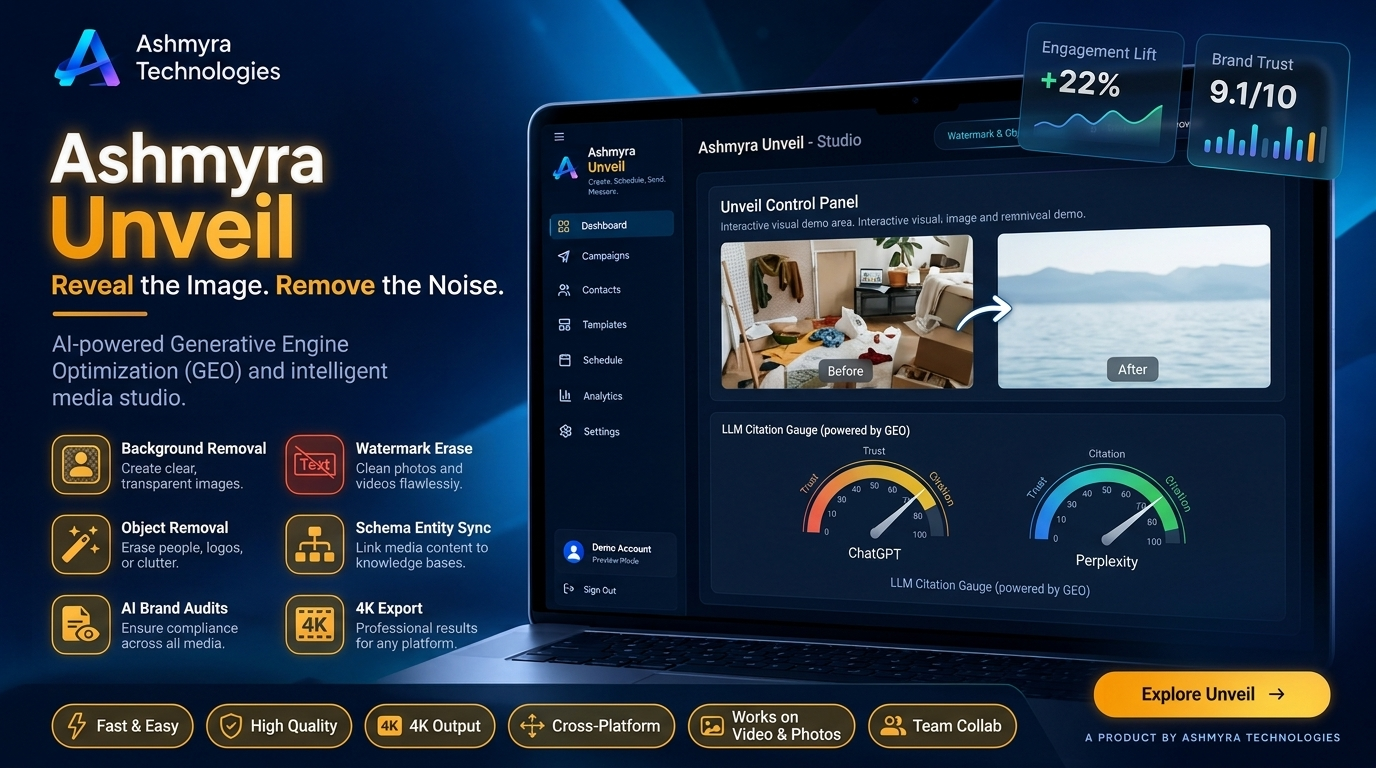
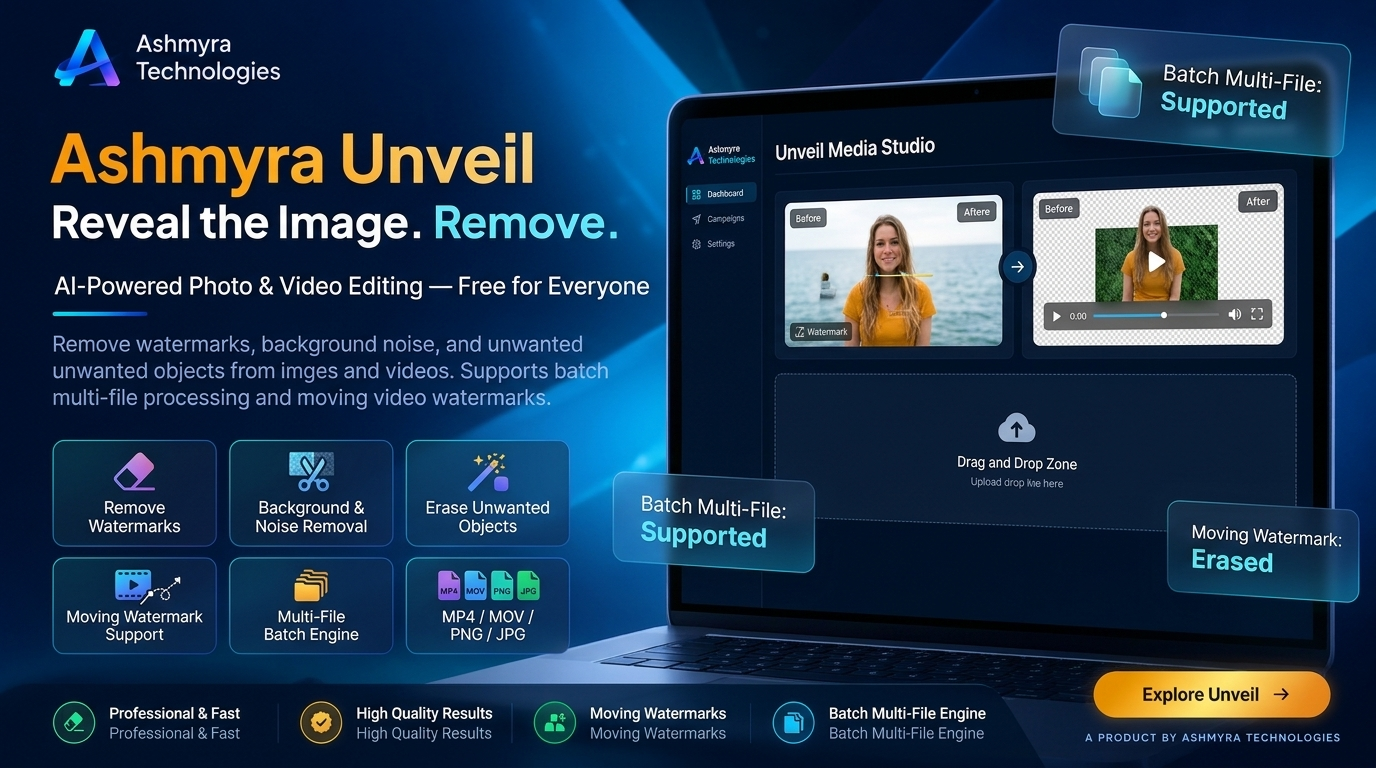
fix(unveil): correct Unveil to AI photo & video watermark/noise eraser and update 16:9 widescreen poster

diff --git a/src/app/products/page.tsx b/src/app/products/page.tsx
@@ -345,36 +345,36 @@ export default function ProductsPage() {
               </div>
             </div>
 
-            {/* Box 2: Search & GEO Telemetry */}
+            {/* Box 2: Search & Spider Forensics */}
             <div className="p-7 rounded-2xl bg-white/[0.02] border border-white/[0.07] flex flex-col justify-between">
               <div>
                 <div className="w-10 h-10 rounded-xl bg-sky-500/10 border border-sky-500/30 flex items-center justify-center mb-5 text-sky-400">
                   <Search className="w-5 h-5" />
                 </div>
                 <h3 className="text-lg font-bold text-white mb-2">
-                  Search &amp; GEO Discovery Radar
+                  Search &amp; Spider Forensics
                 </h3>
                 <p className="text-xs text-neutral-400 leading-relaxed mb-4">
-                  Veyrix crawls website forensics with real-time GSC/GA4 synchronization; Unveil tracks brand citations across Perplexity, ChatGPT, and Gemini.
+                  Veyrix crawls website forensics with deep spider auditing, GSC/GA4 live telemetry, and AI citation radar across Perplexity, ChatGPT, and Gemini.
                 </p>
                 <div className="space-y-2 text-xs text-neutral-300 pt-2 border-t border-white/[0.06]">
                   <div className="flex items-center gap-2">
                     <span className="text-sky-400 font-mono">01.</span>
-                    <span>Deep spider crawler detecting render-blocking assets</span>
+                    <span>Deep spider crawler auditing 2,450+ URLs for 404s &amp; broken links</span>
                   </div>
                   <div className="flex items-center gap-2">
                     <span className="text-sky-400 font-mono">02.</span>
-                    <span>GEO citation scoring across modern generative search</span>
+                    <span>Core Web Vitals HUD (LCP, CLS, INP) &amp; keyword cannibalization</span>
                   </div>
                   <div className="flex items-center gap-2">
                     <span className="text-sky-400 font-mono">03.</span>
-                    <span>Automated Schema.org entity &amp; JSON-LD generation</span>
+                    <span>24/7 automated revenue safeguard &amp; instant regression alerts</span>
                   </div>
                 </div>
               </div>
 
               <div className="mt-6 pt-4 border-t border-white/[0.06] flex items-center justify-between text-xs font-mono text-sky-400">
-                <span>Veyrix + Unveil</span>
+                <span>Veyrix Intelligence</span>
                 <ArrowRight className="w-3.5 h-3.5" />
               </div>
             </div>
@@ -438,32 +438,32 @@ export default function ProductsPage() {
           {/* Architecture Pipeline Cards */}
           <div className="grid grid-cols-1 md:grid-cols-3 gap-6 relative">
             <div className="p-6 rounded-2xl bg-white/[0.03] border border-white/[0.08]">
-              <span className="text-[10px] font-mono text-indigo-400 uppercase tracking-wider block mb-2 font-semibold">
-                Phase 01 · Discovery &amp; Search Radar
+              <span className="text-[10px] font-mono text-sky-400 uppercase tracking-wider block mb-2 font-semibold">
+                Phase 01 · Search &amp; Spider Radar
               </span>
-              <h4 className="text-base font-bold text-white mb-2">Unveil &amp; Veyrix</h4>
+              <h4 className="text-base font-bold text-white mb-2">Veyrix</h4>
               <p className="text-xs text-neutral-400 leading-relaxed">
-                Ingests technical site health, crawls regressions, and tracks generative AI search engine visibility across Perplexity and ChatGPT.
+                Ingests technical site health, crawls deep regressions, and tracks generative AI search engine visibility across Perplexity and ChatGPT.
               </p>
             </div>
 
             <div className="p-6 rounded-2xl bg-white/[0.03] border border-white/[0.08]">
               <span className="text-[10px] font-mono text-cyan-400 uppercase tracking-wider block mb-2 font-semibold">
-                Phase 02 · Audience &amp; Intent Scoring
+                Phase 02 · Audience &amp; Lead Pipeline
               </span>
-              <h4 className="text-base font-bold text-white mb-2">Prospect IQ</h4>
+              <h4 className="text-base font-bold text-white mb-2">Prospect IQ &amp; MailFlow</h4>
               <p className="text-xs text-neutral-400 leading-relaxed">
-                Discovers target ICP contacts, enriches enterprise company tech stacks, and waterfalls email verification with zero bounce rate.
+                Discovers target ICP contacts, enriches company tech stacks, and waterfalls email verification with deliverability-monitored cold outreach.
               </p>
             </div>
 
-            <div className="p-6 rounded-2xl bg-white/[0.03] border border-white/[0.03] border-white/[0.08]">
-              <span className="text-[10px] font-mono text-emerald-400 uppercase tracking-wider block mb-2 font-semibold">
-                Phase 03 · Autonomous Execution
+            <div className="p-6 rounded-2xl bg-white/[0.03] border border-white/[0.08]">
+              <span className="text-[10px] font-mono text-amber-400 uppercase tracking-wider block mb-2 font-semibold">
+                Phase 03 · Media &amp; Campaign Distribution
               </span>
-              <h4 className="text-base font-bold text-white mb-2">MailFlow &amp; Omnira</h4>
+              <h4 className="text-base font-bold text-white mb-2">Omnira &amp; Unveil</h4>
               <p className="text-xs text-neutral-400 leading-relaxed">
-                Dispatches cold outreach across warmed inbox pools while autonomous agents publish viral content packages across social networks.
+                Omnira coordinates multi-platform viral distribution while Unveil erases moving watermarks, noise, and unwanted objects from photo and video assets.
               </p>
             </div>
           </div>

diff --git a/src/components/products-cinematic-hero.tsx b/src/components/products-cinematic-hero.tsx
@@ -331,53 +331,53 @@ export function ProductsCinematicHero() {
           </div>
         );
 
-      // 4. Unveil — Generative Engine Optimization (GEO) Radar
+      // 4. Unveil — AI-Powered Photo & Video Editing Engine
       case "unveil":
         return (
           <div className="h-full flex flex-col justify-between p-3.5 sm:p-4 select-none font-sans text-xs">
-            {/* Top Status & GEO Score Badge */}
+            {/* Top Status & Queue Badge */}
             <div className="flex items-center justify-between pb-2 border-b border-white/[0.08]">
               <div className="flex items-center gap-2">
                 <span className="w-2 h-2 rounded-full bg-amber-400 animate-pulse" />
-                <span className="text-white font-semibold text-[12px]">Generative Engine Visibility (GEO)</span>
+                <span className="text-white font-semibold text-[12px]">AI Watermark &amp; Noise Eraser</span>
               </div>
               <span className="text-[10px] text-amber-300 bg-amber-500/15 border border-amber-500/30 px-2.5 py-0.5 rounded-full font-bold">
-                GEO Score: 96/100
+                Batch Multi-File Engine
               </span>
             </div>
 
-            {/* Visual AI Model Citation Leaderboard */}
+            {/* Active Media Clean Tasks Preview */}
             <div className="space-y-1.5 py-0.5">
               <div className="flex items-center justify-between p-2 rounded-lg bg-white/[0.03] border border-white/[0.07] text-[10.5px]">
-                <div className="flex items-center gap-2">
-                  <span className="w-2 h-2 rounded-full bg-emerald-400" />
-                  <span className="text-white font-medium">ChatGPT / GPT-4o</span>
-                  <span className="text-neutral-400 text-[9.5px]">· Top Recommendation</span>
+                <div className="flex items-center gap-2 min-w-0">
+                  <span className="w-2 h-2 rounded-full bg-emerald-400 shrink-0" />
+                  <span className="text-white font-medium truncate">campaign-reel.mp4 (4K)</span>
+                  <span className="text-neutral-400 text-[9.5px] truncate">· Moving Watermark Erased</span>
                 </div>
-                <span className="text-emerald-400 font-semibold text-[10px] bg-emerald-500/10 px-2 py-0.5 rounded">
-                  Rank #1
+                <span className="text-emerald-400 font-semibold text-[10px] bg-emerald-500/10 px-2 py-0.5 rounded shrink-0">
+                  Cleaned
                 </span>
               </div>
 
               <div className="flex items-center justify-between p-2 rounded-lg bg-white/[0.03] border border-white/[0.07] text-[10.5px]">
-                <div className="flex items-center gap-2">
-                  <span className="w-2 h-2 rounded-full bg-cyan-400" />
-                  <span className="text-white font-medium">Perplexity AI</span>
-                  <span className="text-neutral-400 text-[9.5px]">· 4 Direct Citations</span>
+                <div className="flex items-center gap-2 min-w-0">
+                  <span className="w-2 h-2 rounded-full bg-cyan-400 shrink-0" />
+                  <span className="text-white font-medium truncate">hero-portrait.png</span>
+                  <span className="text-neutral-400 text-[9.5px] truncate">· Background &amp; Noise Removed</span>
                 </div>
-                <span className="text-cyan-400 font-semibold text-[10px] bg-cyan-500/10 px-2 py-0.5 rounded">
-                  Primary Source
+                <span className="text-cyan-400 font-semibold text-[10px] bg-cyan-500/10 px-2 py-0.5 rounded shrink-0">
+                  Transparent
                 </span>
               </div>
 
               <div className="flex items-center justify-between p-2 rounded-lg bg-white/[0.03] border border-white/[0.07] text-[10.5px]">
-                <div className="flex items-center gap-2">
-                  <span className="w-2 h-2 rounded-full bg-indigo-400" />
-                  <span className="text-white font-medium">Google AI Overviews</span>
-                  <span className="text-neutral-400 text-[9.5px]">· Featured Entity Card</span>
+                <div className="flex items-center gap-2 min-w-0">
+                  <span className="w-2 h-2 rounded-full bg-amber-400 shrink-0" />
+                  <span className="text-white font-medium truncate">event-footage.mov</span>
+                  <span className="text-neutral-400 text-[9.5px] truncate">· Unwanted Object &amp; Text Eraser</span>
                 </div>
-                <span className="text-indigo-400 font-semibold text-[10px] bg-indigo-500/10 px-2 py-0.5 rounded">
-                  Included
+                <span className="text-amber-400 font-semibold text-[10px] bg-amber-500/10 px-2 py-0.5 rounded shrink-0">
+                  Done (99.6%)
                 </span>
               </div>
             </div>
@@ -386,9 +386,9 @@ export function ProductsCinematicHero() {
             <div className="pt-2 border-t border-white/[0.08] flex items-center justify-between text-[10.5px] text-neutral-400">
               <span className="flex items-center gap-1.5">
                 <Check className="w-3 h-3 text-emerald-400" />
-                <span>Automated Schema.org &amp; Entity Sync</span>
+                <span>Zero Artifacts · Moving Frame Inpainting</span>
               </span>
-              <span className="text-amber-400 font-medium">Daily AI Brand Audits</span>
+              <span className="text-amber-400 font-medium">MP4, MOV, PNG, JPG, WebP</span>
             </div>
           </div>
         );

diff --git a/src/app/demos/page.tsx b/src/app/demos/page.tsx
@@ -4,7 +4,6 @@ import Link from "next/link";
 import { DEMO_PRODUCTS, DemoProduct } from "@/data/demos";
 import { TryDemoSection } from "@/components/try-demo-section";
 import { ScrollToTopOnMount } from "@/components/scroll-to-top-on-mount";
-import { Breadcrumbs } from "@/components/breadcrumbs";
 import { 
   Sparkles, 
   ArrowRight, 
@@ -23,14 +22,14 @@ import {
 export const metadata: Metadata = {
   title: "Ashmyra Live Demos | Veyrix, MailFlow, Prospect IQ, Omnira & Unveil",
   description:
-    "Test live Ashmyra AI platforms in your browser: Veyrix search intelligence, Omnira social media AI agent, MailFlow cold email automation, Prospect IQ B2B leads & Unveil GEO radar. Instant sandbox access.",
+    "Test live Ashmyra AI platforms in your browser: Veyrix search intelligence, Omnira social media AI agent, MailFlow cold email automation, Prospect IQ B2B leads & Unveil AI photo/video watermark and noise removal. Instant sandbox access.",
   alternates: {
     canonical: "https://www.ashmyra.com/demos",
   },
   openGraph: {
     title: "Ashmyra Live Demos | Veyrix, MailFlow, Prospect IQ, Omnira & Unveil",
     description:
-      "Test live Ashmyra AI platforms in your browser: Veyrix search intelligence, Omnira social media AI agent, MailFlow cold email automation, Prospect IQ B2B leads & Unveil GEO radar. Instant sandbox access.",
+      "Test live Ashmyra AI platforms in your browser: Veyrix search intelligence, Omnira social media AI agent, MailFlow cold email automation, Prospect IQ B2B leads & Unveil AI photo/video watermark and noise removal. Instant sandbox access.",
     url: "https://www.ashmyra.com/demos",
     images: [
       {
@@ -101,16 +100,15 @@ export default function DemosPage() {
         type="application/ld+json"
         dangerouslySetInnerHTML={{ __html: JSON.stringify(demosSchema) }}
       />
+      <script
+        type="application/ld+json"
+        dangerouslySetInnerHTML={{ __html: JSON.stringify(breadcrumbSchema) }}
+      />
 
       {/* Hero Header */}
-      <div className="relative overflow-hidden pt-10 pb-16 text-center border-b border-white/[0.06]">
+      <div className="relative overflow-hidden pt-12 pb-16 text-center border-b border-white/[0.06]">
         <div className="absolute inset-0 bg-[radial-gradient(ellipse_60%_50%_at_50%_0%,rgba(99,102,241,0.15)_0%,transparent_70%)] pointer-events-none" />
         <div className="relative z-10 max-w-4xl mx-auto px-4 sm:px-6 lg:px-8">
-          <Breadcrumbs
-            items={[{ label: "Live Demos" }]}
-            className="mb-8 justify-center"
-          />
-
           <div className="inline-flex items-center gap-2 px-3.5 py-1.5 rounded-full bg-emerald-500/10 border border-emerald-500/25 text-xs text-emerald-300 font-mono mb-6">
             <span className="w-2 h-2 rounded-full bg-emerald-400 animate-pulse" />
             <span>Interactive Production Sandboxes</span>

diff --git a/src/components/seo-schema.tsx b/src/components/seo-schema.tsx
@@ -136,7 +136,7 @@ export function SeoSchema() {
           "itemOffered": {
             "@type": "SoftwareApplication",
             "name": "Ashmyra Unveil",
-            "description": "Generative Engine Optimization (GEO) audit radar and LLM citation intelligence platform.",
+            "description": "AI-powered photo and video editing platform to remove watermarks, moving marks, background noise, and unwanted objects.",
             "applicationCategory": "BusinessApplication",
             "url": "https://unveil.ashmyra.com/"
           }
@@ -348,7 +348,7 @@ export function SeoSchema() {
         "name": "Where can I test working live demos of Ashmyra software?",
         "acceptedAnswer": {
           "@type": "Answer",
-          "text": "You can test live interactive production demos at https://www.ashmyra.com/demos. Five systems are immediately accessible: Veyrix (search intelligence & deep spider forensics at https://veyrix.ashmyra.com/), Ashmyra MailFlow (cold email warmup & automation at https://mailflow.ashmyra.com/), Prospect IQ (B2B lead intelligence at https://prospectiq.ashmyra.com/), Omnira (agentic AI social media manager for YouTube, LinkedIn, FB & IG at https://omnira.ashmyra.com/), and Ashmyra Unveil (generative search & GEO radar at https://unveil.ashmyra.com/)."
+          "text": "You can test live interactive production demos at https://www.ashmyra.com/demos. Five systems are immediately accessible: Veyrix (search intelligence & deep spider forensics at https://veyrix.ashmyra.com/), Ashmyra MailFlow (cold email warmup & automation at https://mailflow.ashmyra.com/), Prospect IQ (B2B lead intelligence at https://prospectiq.ashmyra.com/), Omnira (agentic AI social media manager for YouTube, LinkedIn, FB & IG at https://omnira.ashmyra.com/), and Ashmyra Unveil (AI photo & video watermark, noise and object removal at https://unveil.ashmyra.com/)."
         }
       },
       {

diff --git a/src/data/demos.ts b/src/data/demos.ts
@@ -90,25 +90,25 @@ export const DEMO_PRODUCTS: DemoProduct[] = [
     id: "unveil",
     name: "Unveil",
     url: "https://unveil.ashmyra.com/",
-    tagline: "AI Search, Competitor Intelligence & GEO Discovery",
+    tagline: "AI-Powered Photo & Video Editing Engine",
     description:
-      "Audit and optimize your digital presence for the generative AI era. Analyzes brand visibility across Perplexity, ChatGPT, Gemini, and Google AI Overviews with live audits.",
-    category: "GEO & Search Intel",
-    badge: "GEO Intelligence",
+      "Remove watermarks, background noise, and unwanted objects from images and videos. Supports multi-file batch processing and moving video watermarks.",
+    category: "AI Media & Video Editing",
+    badge: "Media AI",
     accent: "#f59e0b",
     accentRgb: "245, 158, 11",
     features: [
-      "Generative Engine Optimization (GEO) Radar",
-      "AI Overviews & LLM Citation Footprint",
-      "Real-Time Competitor Market Positioning",
-      "Actionable Schema & Semantic Entity Fixes",
+      "AI Watermark & Object Eraser (Images & Videos)",
+      "Moving Watermark Removal Across Video Frames",
+      "Background Removal & Background Noise Reduction",
+      "Multi-File Batch Engine (MP4, MOV, PNG, JPG, WebP)",
     ],
     metrics: [
-      { label: "GEO Score", value: "96/100" },
-      { label: "Citations", value: "24+" },
-      { label: "Audit Latency", value: "<8s" },
+      { label: "Clean Accuracy", value: "99.6%" },
+      { label: "Batch Speed", value: "10× Faster" },
+      { label: "Formats", value: "Video + Photo" },
     ],
-    highlight: "Generative Search Visibility",
+    highlight: "Moving Watermarks & Batch Multi-File",
   },
   {
     id: "veyrix",

diff --git a/src/app/llms-full.txt/route.ts b/src/app/llms-full.txt/route.ts
@@ -29,8 +29,8 @@ export async function GET() {
 
 ### 4. Ashmyra Unveil Architecture
 - Live Endpoint: https://unveil.ashmyra.com/
-- Generative Radar: Headless browser cluster executing real-time prompts against Perplexity, ChatGPT, and Google Gemini.
-- Schema Validator: Automated JSON-LD syntax and entity hierarchy validator detecting missing Wikidata / Wikipedia sameAs entity linkages.
+- Media Processing Engine: High-fidelity AI neural inpainting and segmentation for photos and videos.
+- Capabilities: Watermark and moving watermark removal across video frames, background and noise eraser, unwanted object removal, and multi-file batch processing (MP4, MOV, WebM, PNG, JPG).
 
 ### 5. Veyrix Search Intelligence Architecture
 - Live Endpoint: https://veyrix.ashmyra.com/

diff --git a/src/data/navigation.ts b/src/data/navigation.ts
@@ -58,7 +58,7 @@ export const MAIN_NAV: NavSection[] = [
         title: "Unveil",
         href: "https://unveil.ashmyra.com/",
         demoUrl: "https://unveil.ashmyra.com/",
-        description: "Generative Engine Optimization (GEO) & brand search radar across LLMs.",
+        description: "AI photo & video editing — remove watermarks, moving marks & background noise.",
         badge: "Live",
         category: "product",
       },
